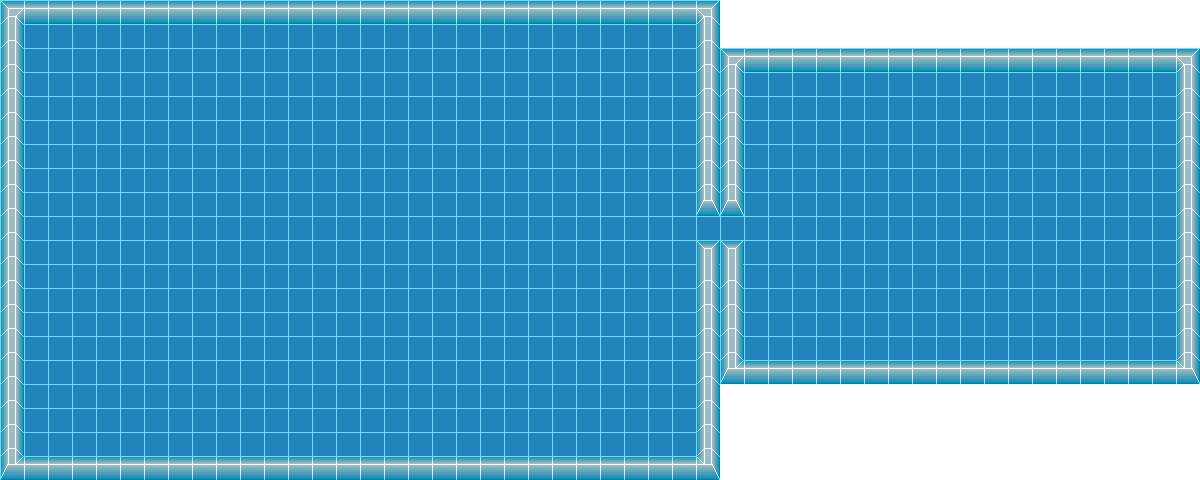
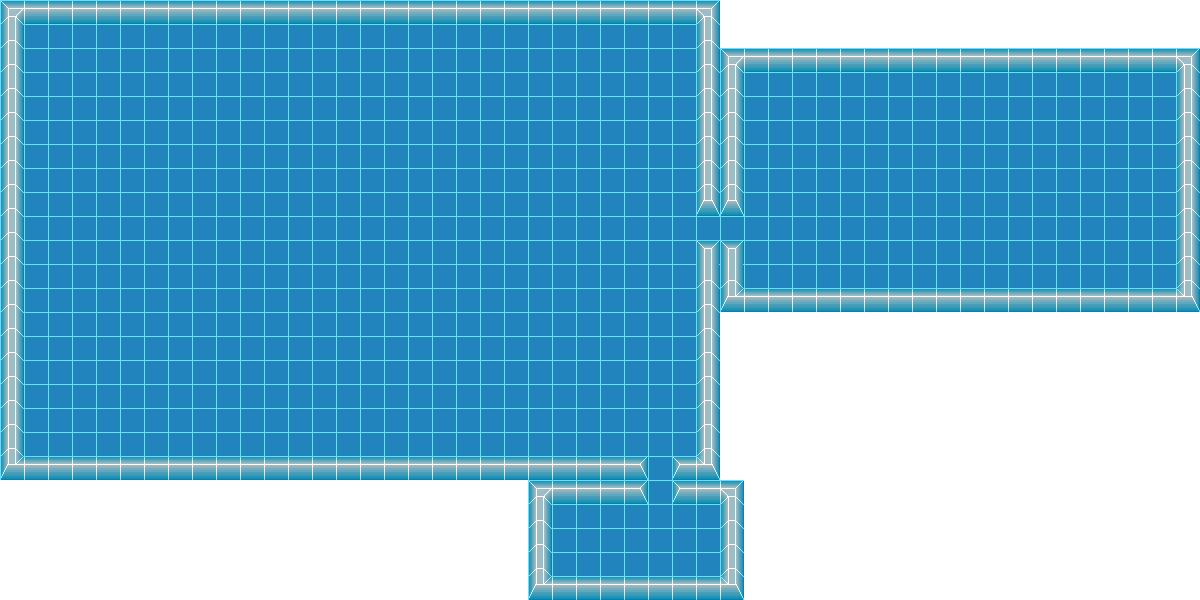
Añadido scroll en todas las direcciones + estado para habitaciones pequeñas

diff --git a/src/scenes/OnTransitionState.py b/src/scenes/OnTransitionState.py
@@ -9,30 +9,73 @@ from src.scenes.Stage import *
 # Clase OnTransitionState
 
 class OnTransitionState(State):
-    def __init__(self, connection, playerWidth):
+    def __init__(self, connection, player):
         self.connection = connection
         self.scrollX = SCREEN_WIDTH
-        self.scrollPlayerX = playerWidth
-        self.speedX = 0.5
-        self.speedPlayerX = self.speedX*3/5
+        self.scrollY = SCREEN_HEIGHT
+        self.scrollPlayerX = player.rect.width
+        self.scrollPlayerY = player.rect.height
+        self.speed = 0.5
+        self.speedPlayer = self.speed*3/5
 
     def update(self, time, stage):
-        print(self.scrollX, stage.viewport.center)
+        if self.connection["direction"] == "left" or self.connection["direction"] == "right":
+            shiftX = int(self.speed*time)
+            shiftPlayerX = int(self.speedPlayer*time)
 
-        shiftX = int(self.speedX*time)
-        shiftPlayerX = int(self.speedPlayerX*time)
+            self.scrollX -= shiftX
 
-        self.scrollX -= shiftX
-        stage.viewport = stage.viewport.move(shiftX, 0)
-        self.scrollPlayerX -= shiftPlayerX
+            # Desplazamos el viewport en función de la dirección
+            if self.connection["direction"] == "right":
+                stage.viewport = stage.viewport.move(shiftX, 0)
+            else:
+                stage.viewport = stage.viewport.move(-shiftX, 0)
 
-        if self.scrollPlayerX > 0:
-            stage.player.increment_position((shiftPlayerX, 0))
+            # Desplazamos el jugador para que quede en la entrada de la nueva sala
+            self.scrollPlayerX -= shiftPlayerX
+            if self.scrollPlayerX > 0:
+                if self.connection["direction"] == "right":
+                    stage.player.increment_position((shiftPlayerX, 0))
+                else:
+                    stage.player.increment_position((-shiftPlayerX, 0))
 
-        if self.scrollX <= 0:
-            stage.state = stage.inRoomState
-            stage.currentRoom = self.connection["to"]
-            # stage.player.change_global_position((757, 247))
+            # Si hemos terminado de desplazar el mapa, volvemos al estado InRoomState y cambiamos la sala actual
+            if self.scrollX <= 0:
+                dstRoom = self.connection["to"]
+                if stage.rooms[dstRoom].small:
+                    stage.state = stage.smallRoomState
+                else:
+                    stage.state = stage.inRoomState
+                stage.currentRoom = dstRoom
+
+        else:
+            shiftY = int(self.speed*time)
+            shiftPlayerY = int(self.speedPlayer*time)
+
+            self.scrollY -= shiftY
+
+            # Desplazamos el viewport en función de la dirección
+            if self.connection["direction"] == "down":
+                stage.viewport = stage.viewport.move(0, shiftY)
+            else:
+                stage.viewport = stage.viewport.move(0, -shiftY)
+
+            # Desplazamos el jugador para que quede en la entrada de la nueva sala
+            self.scrollPlayerY -= shiftPlayerY
+            if self.scrollPlayerY > 0:
+                if self.connection["direction"] == "down":
+                    stage.player.increment_position((0, shiftPlayerY))
+                else:
+                    stage.player.increment_position((0, -shiftPlayerY))
+
+            # Si hemos terminado de desplazar el mapa, volvemos al estado InRoomState y cambiamos la sala actual
+            if self.scrollY <= 0:
+                dstRoom = self.connection["to"]
+                if stage.rooms[dstRoom].small:
+                    stage.state = stage.smallRoomState
+                else:
+                    stage.state = stage.inRoomState
+                stage.currentRoom = dstRoom
 
     def events(self, time, stage):
         pass
@@ -45,18 +88,3 @@ class OnTransitionState(State):
         stage.spritesGroup.draw(newImage)
         # Se pinta la porción de la sala que coincide con el viewport
         screen.blit(newImage, (0,0), stage.viewport)
-
-        # room1 = stage.rooms[stage.currentRoom]
-        # room2 = stage.rooms[self.connection["to"]]
-        # room1Top = min(int(SCREEN_HEIGHT/2) - (stage.player.rect.centery - room1.position[1]), 0)
-        # room2Top = min(int(SCREEN_HEIGHT/2) - (stage.player.rect.centery - room2.position[1]), 0)
-        #
-        # screen.blit(room1.image, pygame.Rect((self.scrollX-room1.width, room1Top), (self.scrollX, SCREEN_HEIGHT)))
-        # screen.blit(room2.image, pygame.Rect((self.scrollX, room2Top), (SCREEN_WIDTH-self.scrollX, SCREEN_HEIGHT)))
-
-        # Luego los Sprites sobre una copia del mapa de la sala
-        #newRoom = room.image.copy()
-        #stage.spritesGroup.draw(newRoom)
-
-        # Se pinta la porción de la sala que coincide con el viewport
-        #screen.blit(newRoom, (0,0), stage.viewport)

diff --git a/src/scenes/screens/Room.py b/src/scenes/screens/Room.py
@@ -19,3 +19,20 @@ class Room(object):
         self.height = data["height"]
         self.connections = data["connections"]
         self.rect = pygame.Rect(self.position, (self.width, self.height))
+        self.small = True if "small" in data else False
+
+    # Indica si el jugador está saliendo de la sala y devuelve la conexión que representa la salida
+    def isExiting(self, player):
+        (playerX, playerY) = player.rect.center
+        exit = None
+        for connection in self.connections:
+            if (connection["direction"] == "right" and playerX > connection["x"]) or (connection["direction"] == "left" and playerX < connection["x"]):
+                if playerY < connection["top"] and playerY > connection["bottom"]:
+                    exit = connection
+                    break
+            elif (connection["direction"] == "up" and playerY < connection["y"]) or (connection["direction"] == "down" and playerY > connection["y"]):
+                if playerX < connection["right"] and playerX > connection["left"]:
+                    exit = connection
+                    break
+
+        return exit

diff --git a/src/scenes/Stage.py b/src/scenes/Stage.py
@@ -6,6 +6,7 @@ from src.scenes.Scene import *
 from src.scenes.screens.Room import *
 from src.sprites.Player import *
 from src.scenes.InRoomState import *
+from src.scenes.SmallRoomState import *
 
 # -------------------------------------------------
 # Clase Stage
@@ -15,6 +16,7 @@ SCREEN_CENTER_X = int(SCREEN_WIDTH / 2)
 class Stage(Scene):
 
     inRoomState = InRoomState()
+    smallRoomState = SmallRoomState()
 
     def __init__(self, stageFile, gameManager):
         # Primero invocamos al constructor de la clase padre
@@ -25,6 +27,7 @@ class Stage(Scene):
 
         image_path = os.path.join('stages', data["image"])
         self.image = ResourceManager.load_image(image_path, (255, 0, 255))
+        self.image.convert_alpha()
         mask_path = os.path.join('stages', data["mask"])
         mask_image = ResourceManager.load_image(mask_path, (-1))
         self.mask = pygame.mask.from_surface(mask_image)

diff --git a/src/scenes/SmallRoomState.py b/src/scenes/SmallRoomState.py
@@ -3,7 +3,7 @@
 from src.scenes.State import *
 from src.scenes.OnTransitionState import *
 
-class InRoomState(State):
+class SmallRoomState(State):
 
     def update(self, time, stage):
         # Actualizamos los sprites
@@ -17,13 +17,6 @@ class InRoomState(State):
         if exit is not None:
             stage.state = OnTransitionState(exit, stage.player)
             return
-
-        # Alinea el viewport con el centro del jugador
-        # Si la pantalla se sale de la sala actual, la alinea para que encaje
-        # De este modo, el personaje siempre estará centrado, menos cuando se aproxime
-        # a los bordes de la sala
-        stage.viewport.center = (stage.player.rect.center)
-        stage.viewport.clamp_ip(stage.rooms[stage.currentRoom].rect)
 
     def draw(self, screen, stage):
         # Muestro un color de fondo
